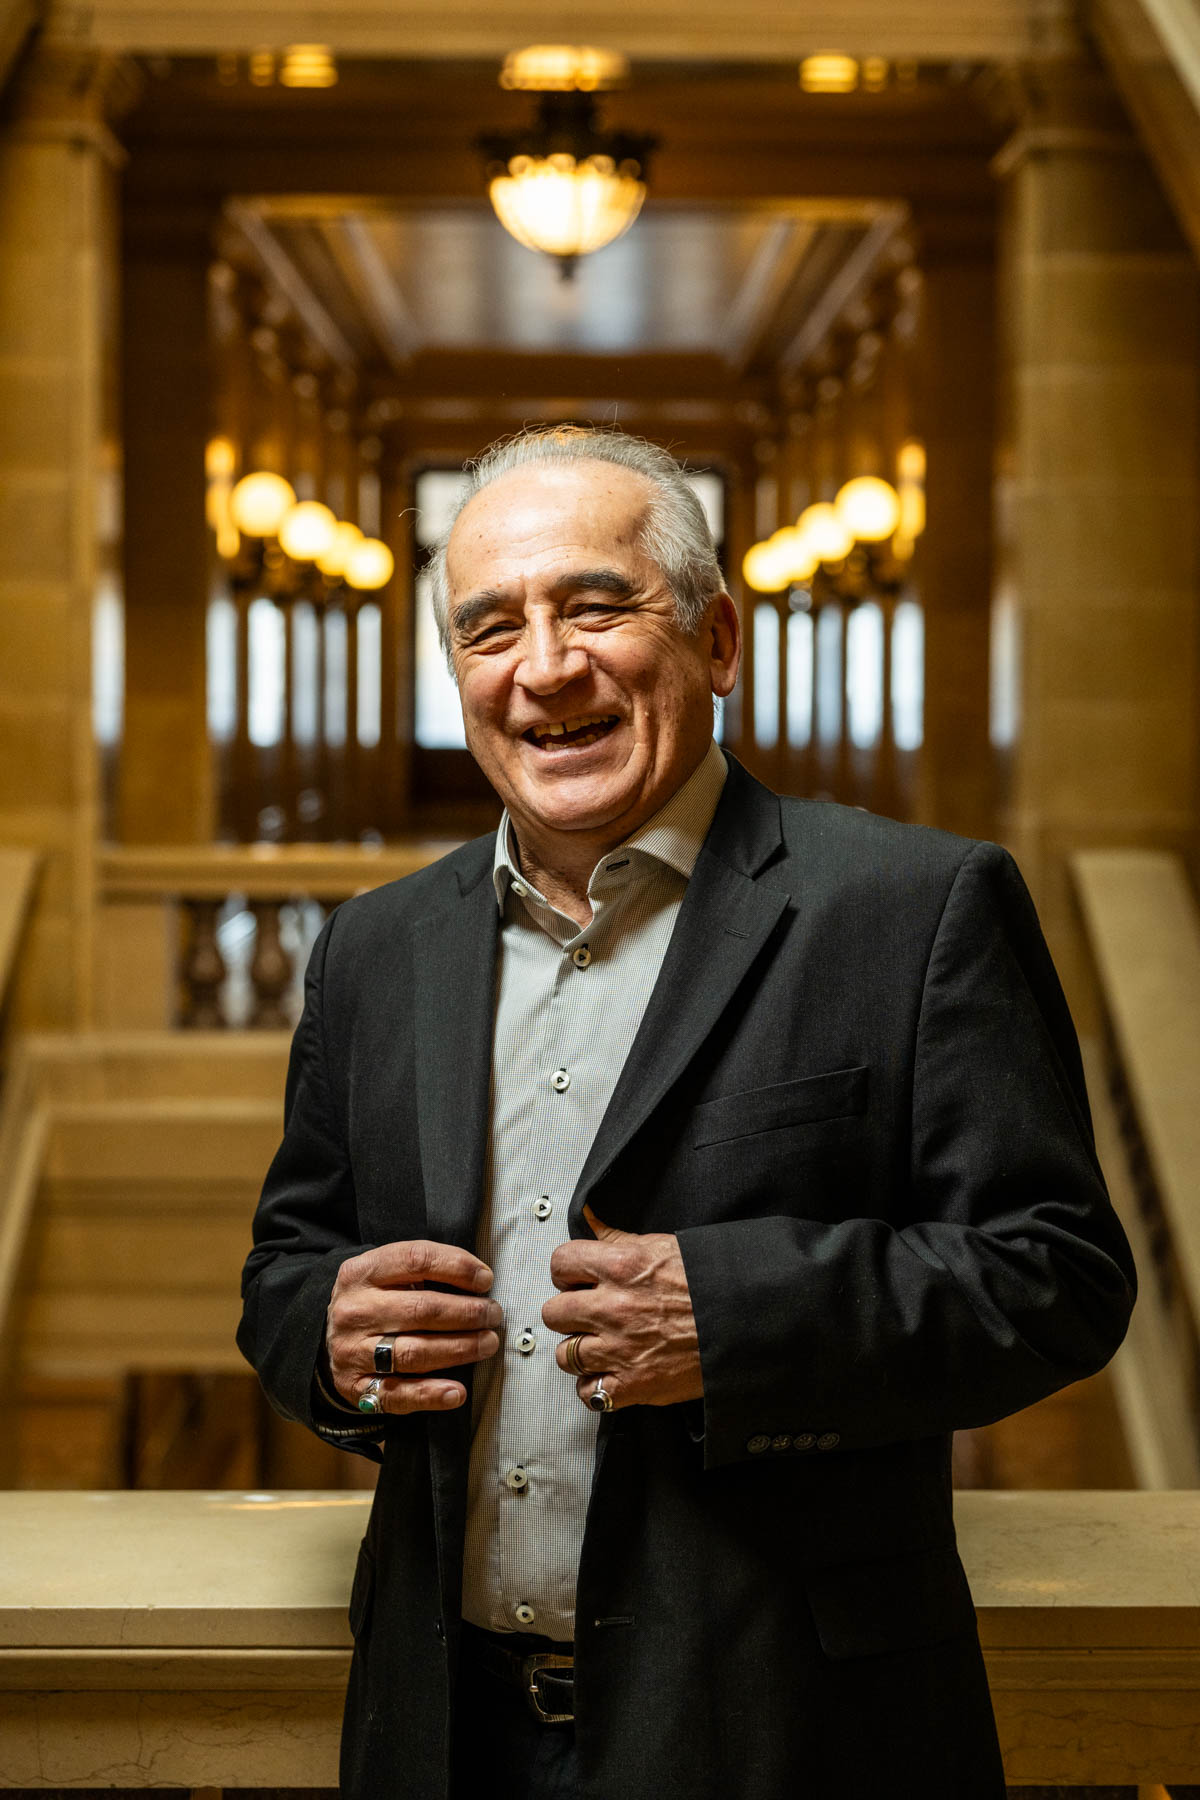
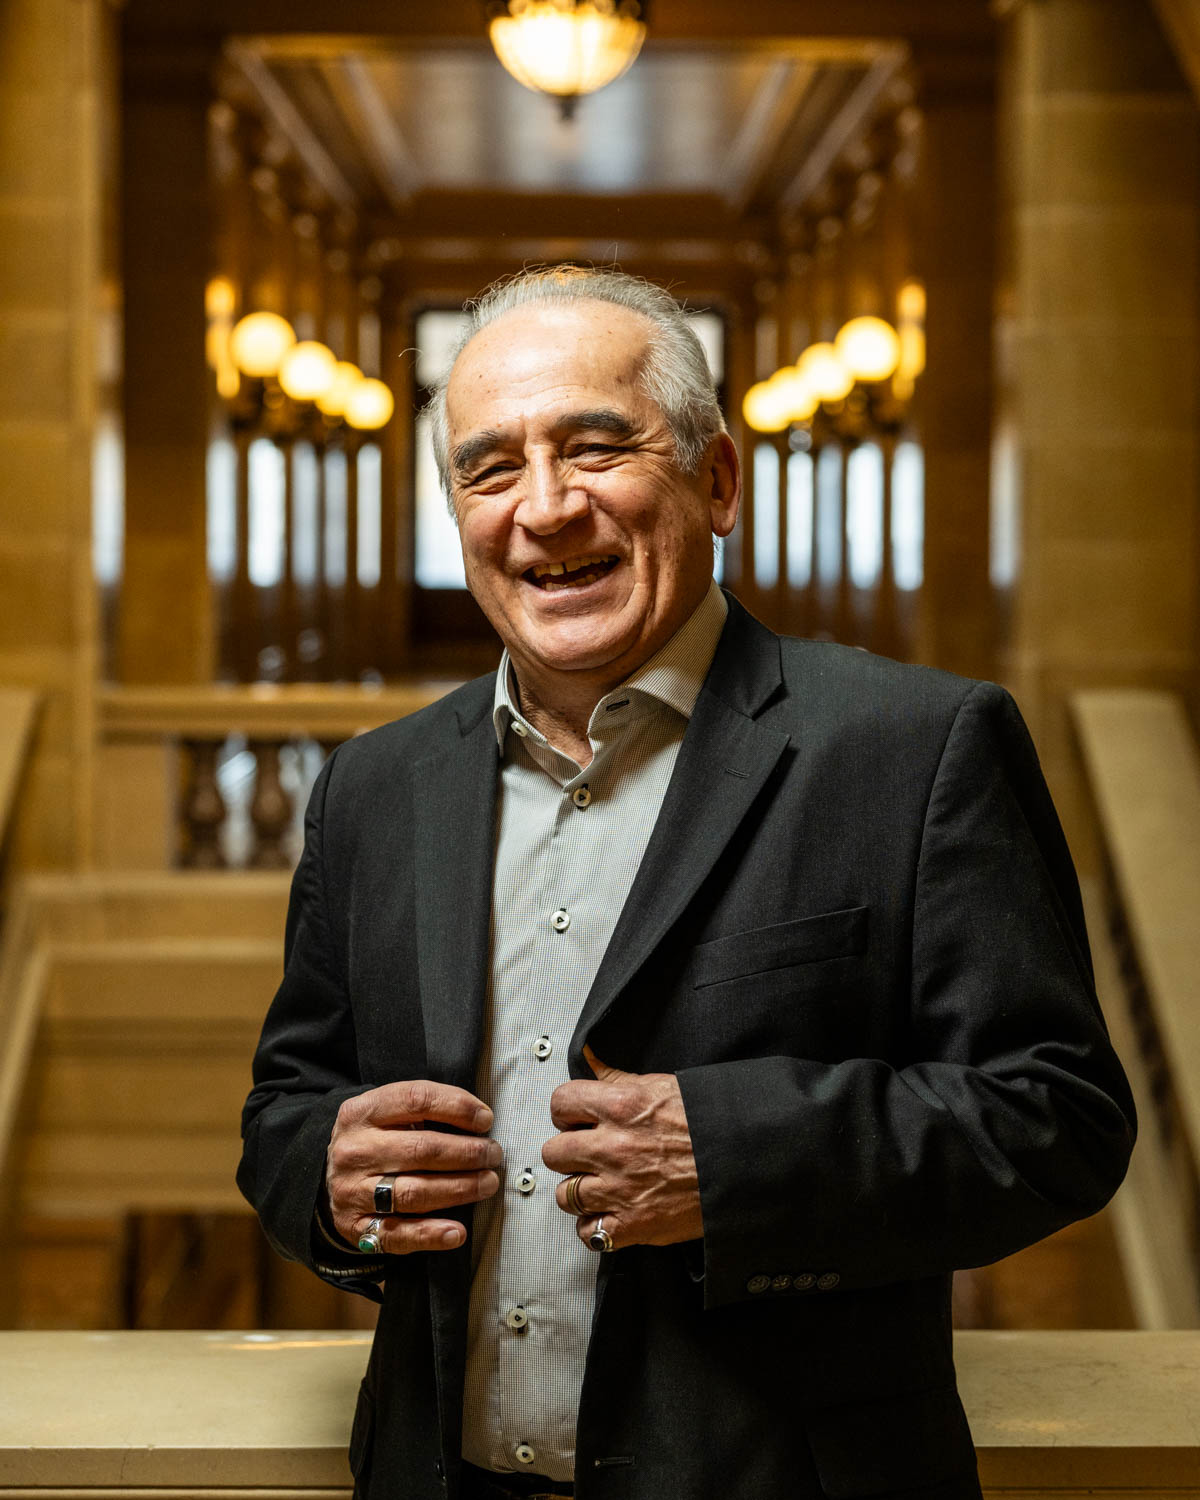
Update

diff --git a/src/routes/+page.svelte b/src/routes/+page.svelte
@@ -529,6 +529,10 @@
             padding: 0 0.5rem;
         }
 
+        .results-container {
+            padding: 0;
+        }
+
         .calendar {
             padding: 0.75rem;
         }
@@ -596,8 +600,8 @@
     @media (min-width: 760px) {
 
         .hero {
-            padding-top: 15vh !important;
-            padding-bottom: 10vh !important;
+            padding-top: 20vh !important;
+            padding-bottom: 20vh !important;
         }
 
         #governors-race .bento-container {
@@ -1314,7 +1318,7 @@
                             window.__broadstreetInitialized = true;
                         }
                     </script>
-                    <broadstreet-zone zone-id="190680"></broadstreet-zone>
+                    <broadstreet-zone zone-id=""></broadstreet-zone>
 
                     <section id="governors-race">
                         <h2 class="wp-block-heading has-text-align-center">Governor's Race</h2>
